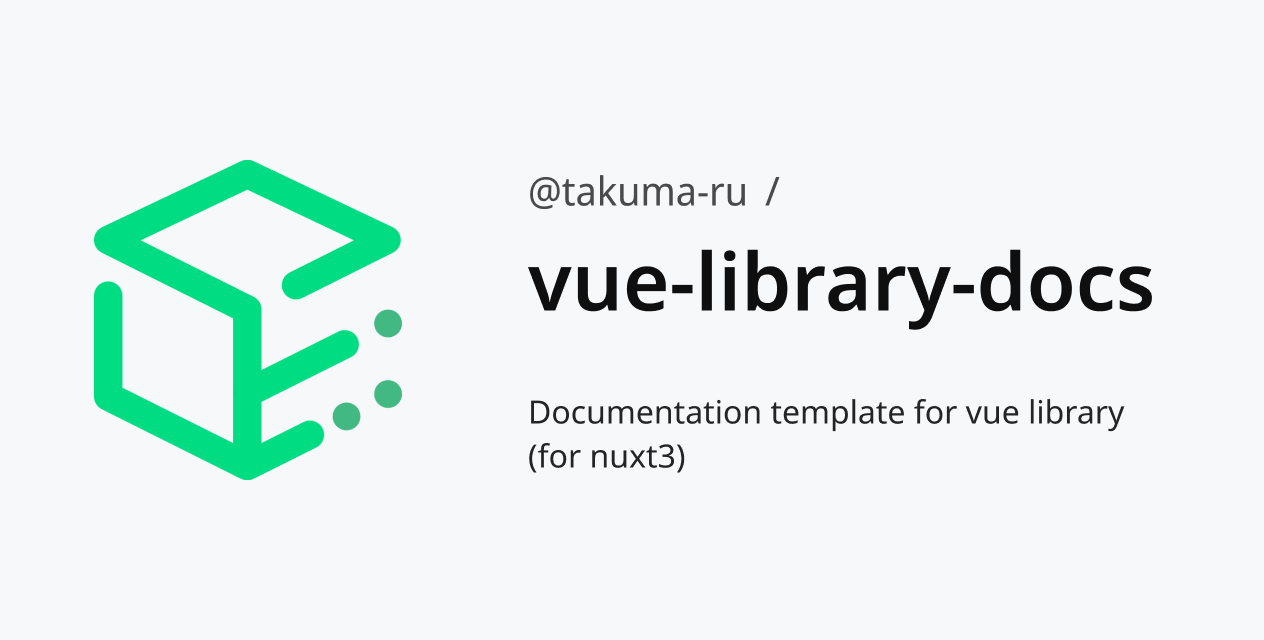
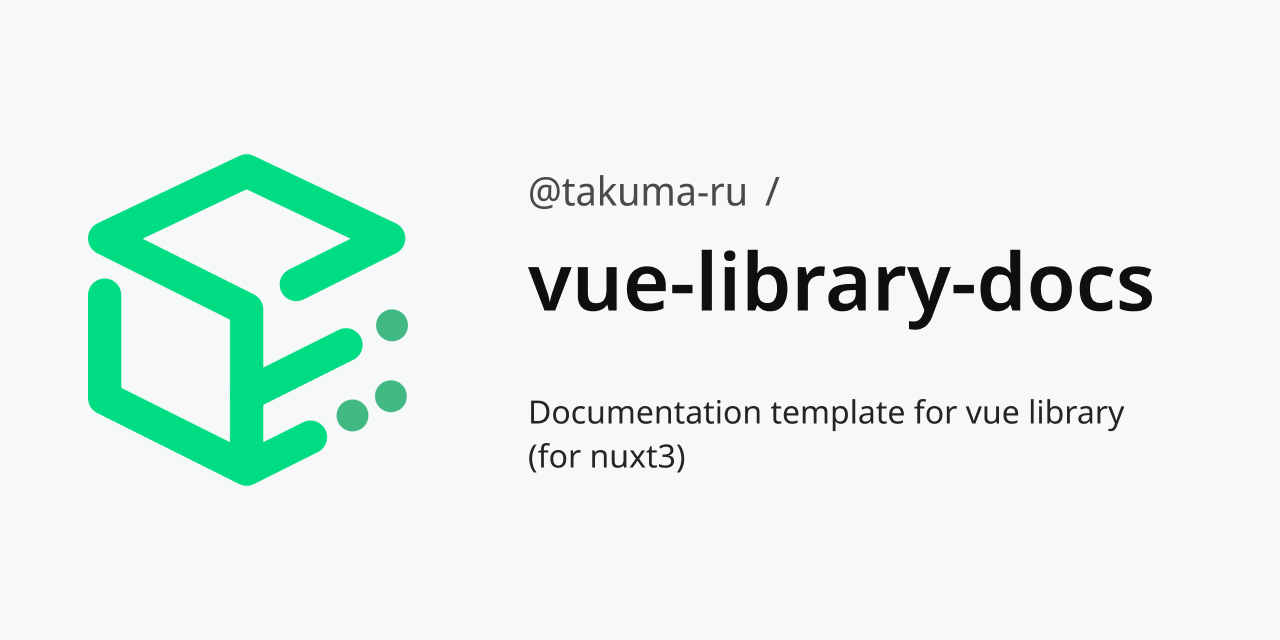
[Update] imgs

diff --git a/README.md b/README.md
@@ -1,6 +1,6 @@
 # @takuma-ru/vue-library-docs
 
-![socialPreview](https://user-images.githubusercontent.com/49429291/211703637-3daca7d9-6ea0-4e50-893c-e1bbec8abc1c.png)
+![socialPreview](https://user-images.githubusercontent.com/49429291/211705077-a56dfeae-a862-4371-8e03-798719930fa3.png)
 
 ## Status
 none
